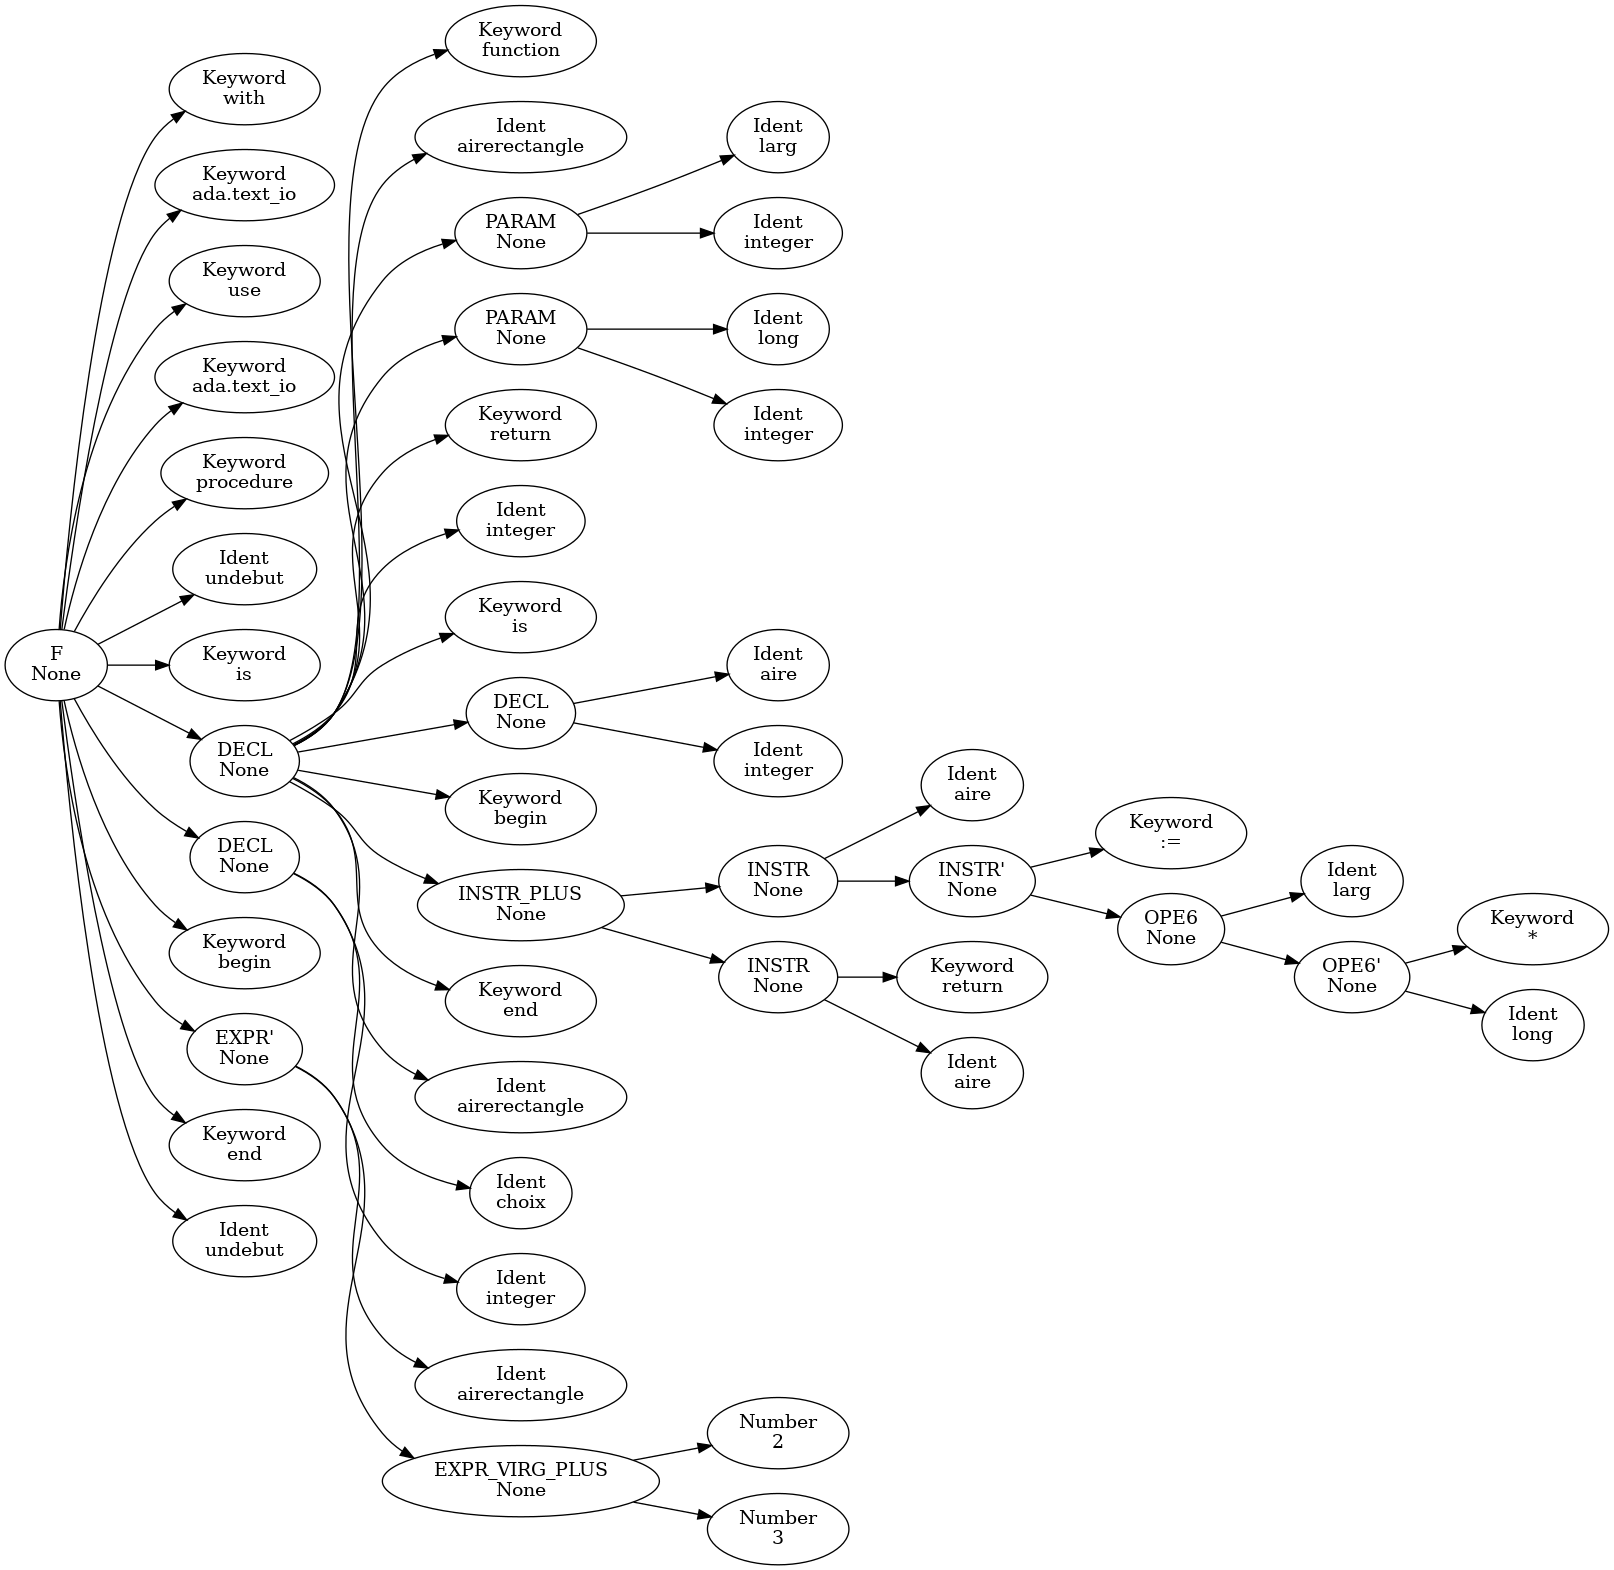
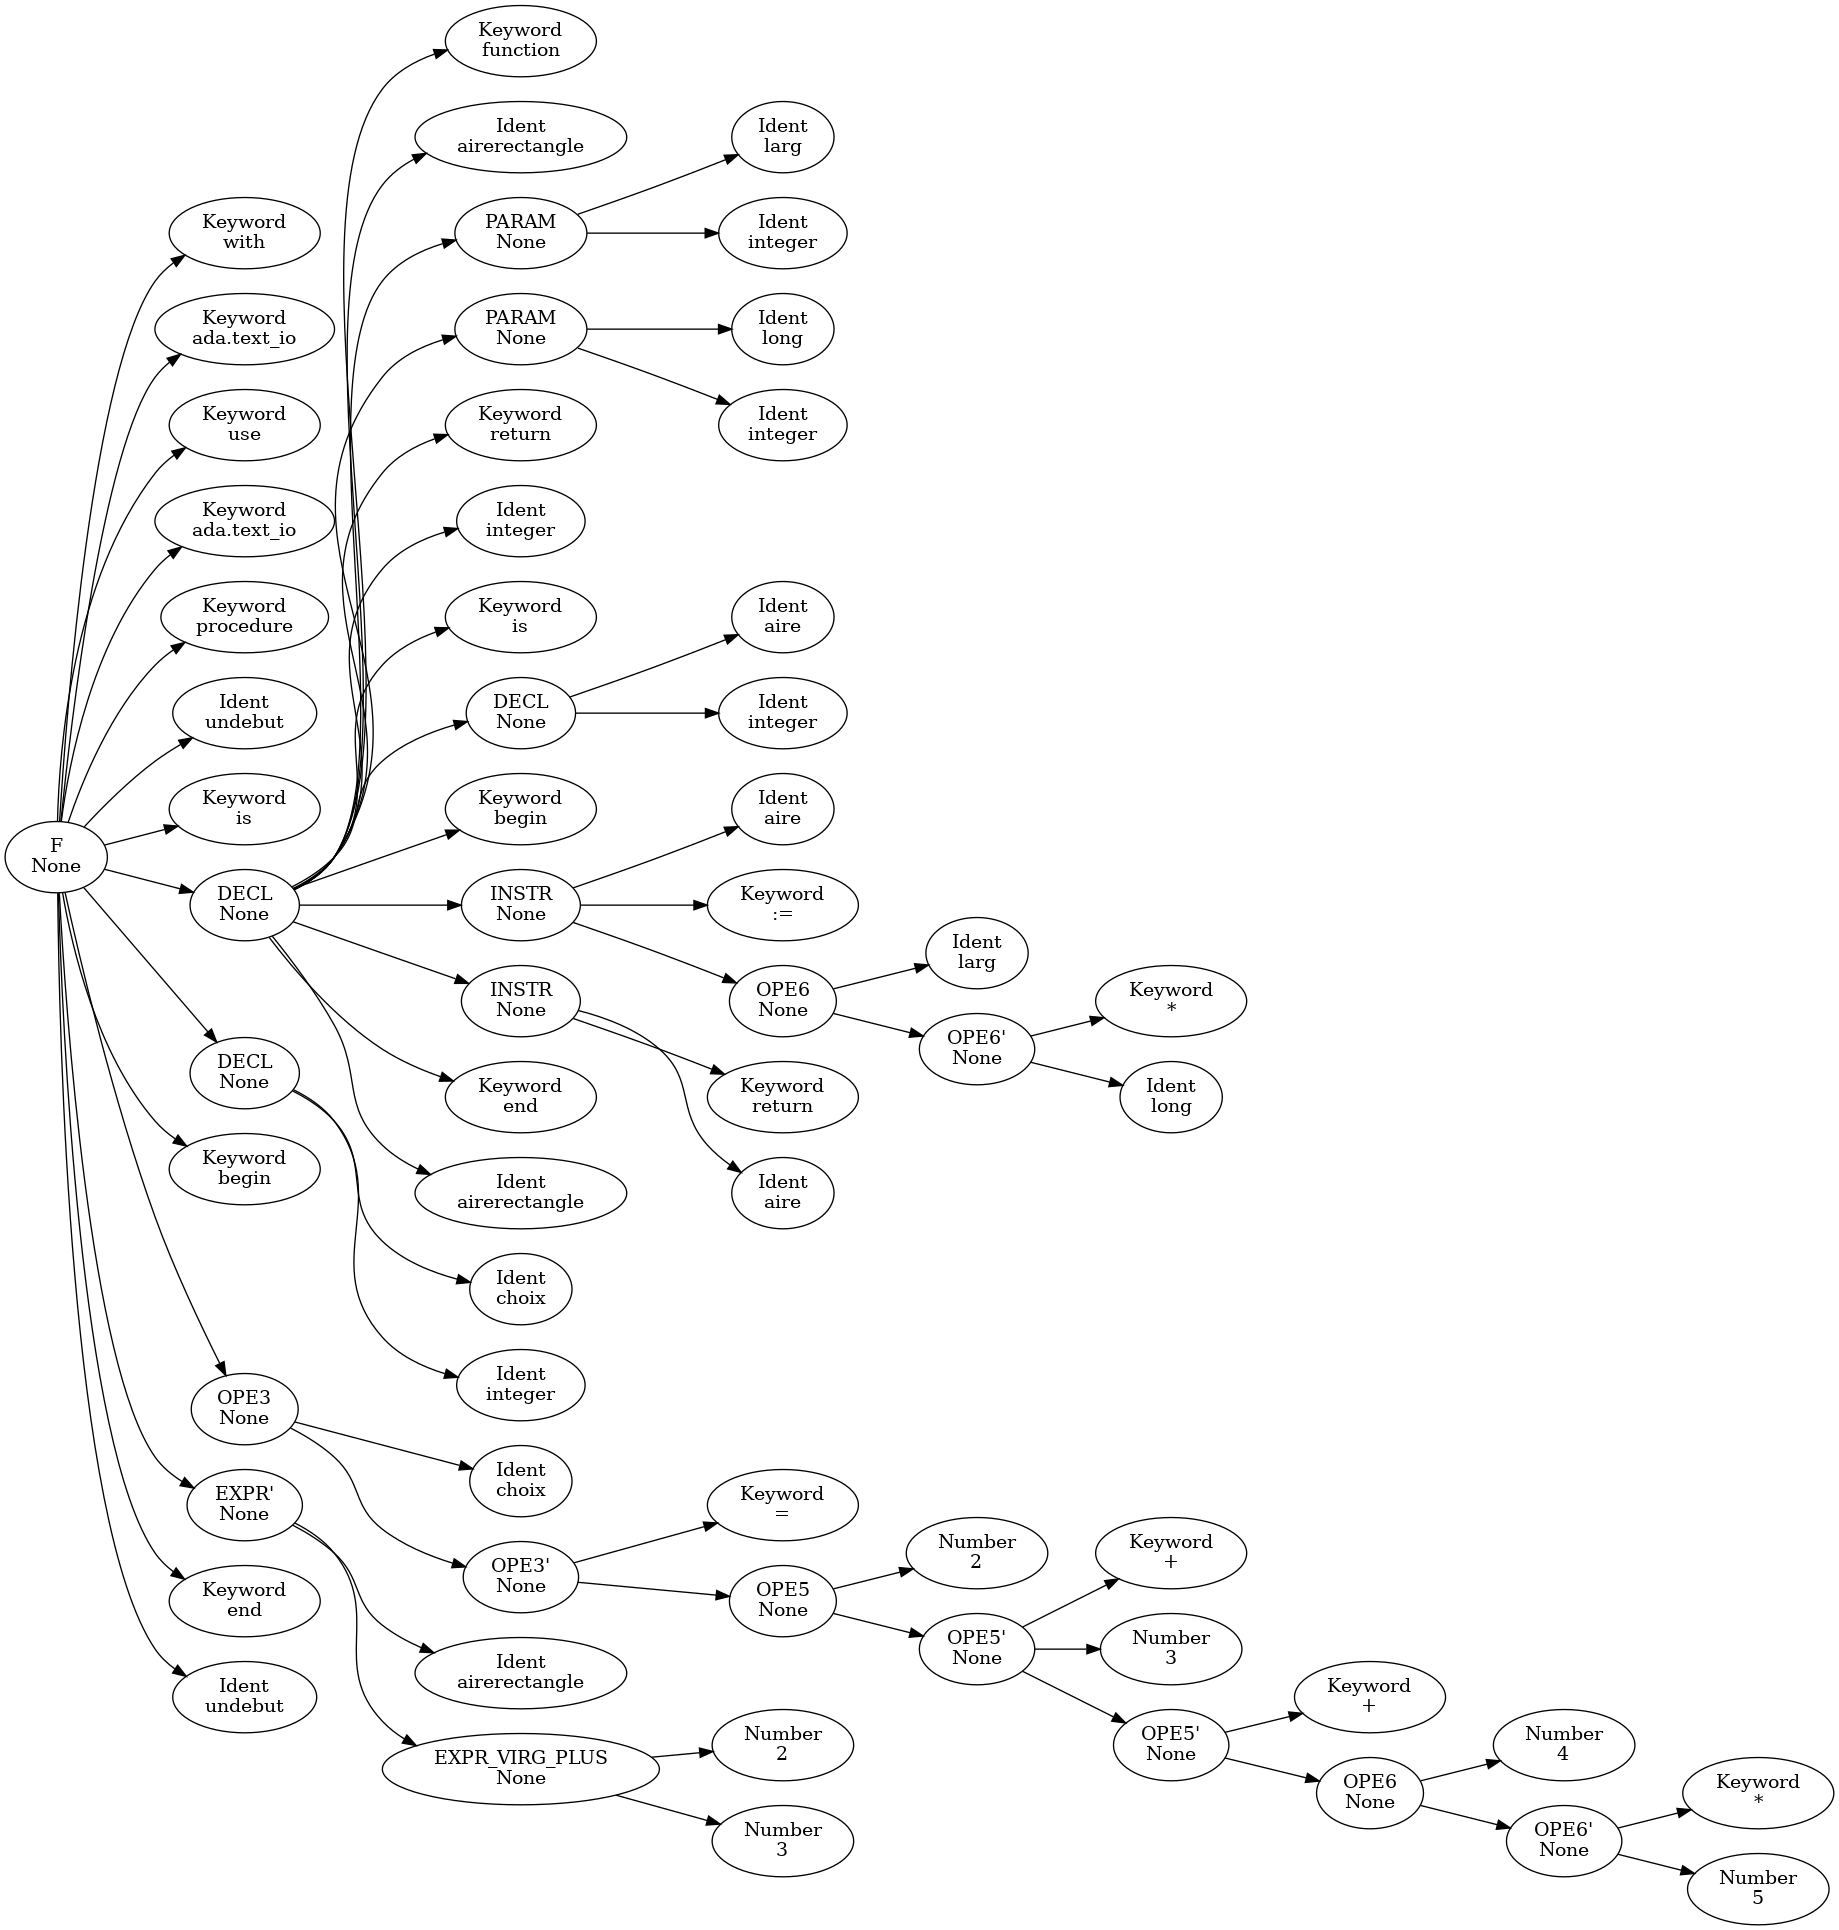
elagage des noeuds intermédiaires

diff --git a/parseur/prune_ast.py b/parseur/prune_ast.py
@@ -119,9 +119,9 @@ def remonter_param(node):
         else :
             remonter_param(node.children[i])
 
-def replace_param_point_virg_plus(root_node):
+def remove_intermediary_node(root_node):
     def replace_recursive(node, parent, index):
-        if node.fct == "PARAM_POINT_VIRG_PLUS" or node.fct == "DECL_STAR":
+        if node.fct == "PARAM_POINT_VIRG_PLUS" or node.fct == "DECL_STAR" or node.fct == "INSTR_PLUS" or node.fct == "INSTR'":
             # Supprimer le nœud "PARAM_POINT_VIRG_PLUS" du parent
             parent.children.pop(index)
 
@@ -143,4 +143,5 @@ def replace_param_point_virg_plus(root_node):
     # Mettre à jour le nœud racine réel en utilisant le seul enfant du faux nœud racine
     root_node = fake_root.children[0]
             
+
 

diff --git a/test_ast.py b/test_ast.py
@@ -95,6 +95,6 @@ show.visualize_tree(arbre_fi).render(filename='prun_syntax_tree_final', director
 
 #afficher l'arbre après avoir remonter param
 
-prune.replace_param_point_virg_plus(arbre_fi)
+prune.remove_intermediary_node(arbre_fi)
 show.visualize_tree(arbre_fi).render(filename='prun_param_syntax_tree_param', directory='./output', cleanup=True, format='png', engine='dot')
 show.visualize_tree_hor(arbre_fi,orientation='LR').render(filename='prun_param_syntax_tree_param_hor', directory='./output', cleanup=True, format='png', engine='dot')
